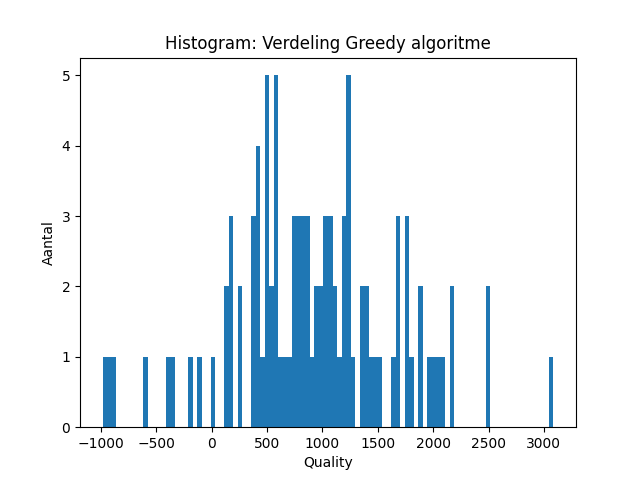
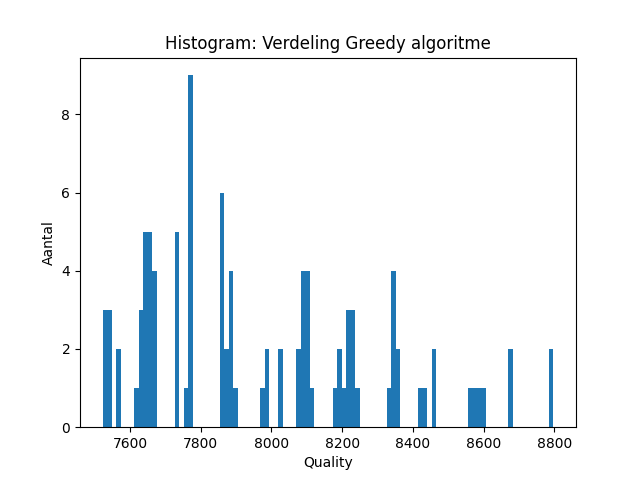
hc half af

diff --git a/code/algorithm/hc.py b/code/algorithm/hc.py
@@ -12,9 +12,8 @@ class Hillclimber():
         self.max_traject = max_traject
         self.traject = []
         self.time = []
-
-        # self.used_con = []
-
+        self.used_con = []
+        
 
     def get_best_traject(self):
         iteration = 0
@@ -31,11 +30,13 @@ class Hillclimber():
 
         for i in range(100):
             # print(best_traject)
-            
-            
+
             iteration += 1
-            # get_traject = randomize.Random.get_traject(self)
-            get_traject = greedy.Greedy.get_traject(self)
+            get_traject = randomize.Random.get_traject(self)
+            # get_traject = greedy.Greedy.get_traject(self)
+
+            # if get_traject[0][0] in self.used_con:
+            #     continue
             Min = get_traject[1]
             T =1
             p = (self.all_con - (functions.get_remain_con(self.copy_connection.items()))) / self.all_con 
@@ -52,15 +53,11 @@ class Hillclimber():
         lijnvoering = []
         Min = 0
 
-        used_connections = {}
-        
         for i in range(self.max_traject):
             get_traject = self.get_best_traject()
  
             Min += get_traject[1]
             lijnvoering.append(get_traject[0])
-        
-            
 
         self.used_con = []
         for traject in lijnvoering:

diff --git a/main.py b/main.py
@@ -1,7 +1,7 @@
 from code.classes import station, load
 from code.algorithm import randomize, greedy, functions, hc
 from code.visualisation.graph import get_map
-from data.quality.hist import *
+from code.visualisation.hist import *
 
 import csv
 #import matplotlib.pyplot as plt
@@ -57,9 +57,7 @@ if __name__ == "__main__":
 
     best_output = functions.best_output(algorithm)
     print(f"best output: {best_output[0]}\nlijntraject: {best_output[1]}")
-    # print(algorithm())
-
-
+ 
 
     # ---------------------------- GRAPH -------------------------
     # # maken van grafiek dmv gegeven coordinaten

diff --git a/code/algorithm/randomize.py b/code/algorithm/randomize.py
@@ -78,7 +78,7 @@ class Random():
                 loops += get_traject[2]
 
                 remain_con = functions.get_remain_con(self.copy_connection.items())
-                if remain_con < 7:
+                if remain_con < 5:
                     break
             self.copy_connection = functions.my_copy(self.connection)
             # self.copy_connection = copy.deepcopy(self.connection)

diff --git a/code/algorithm/functions.py b/code/algorithm/functions.py
@@ -18,7 +18,7 @@ def best_output(algorithm):
 
     data = {'q': all_q
     }
-    filename = "data/quality/greedy_output.csv"
+    filename = "data/quality/output.csv"
     df = pd.DataFrame(data, columns = ['q'])
     df.to_csv(filename)
 
